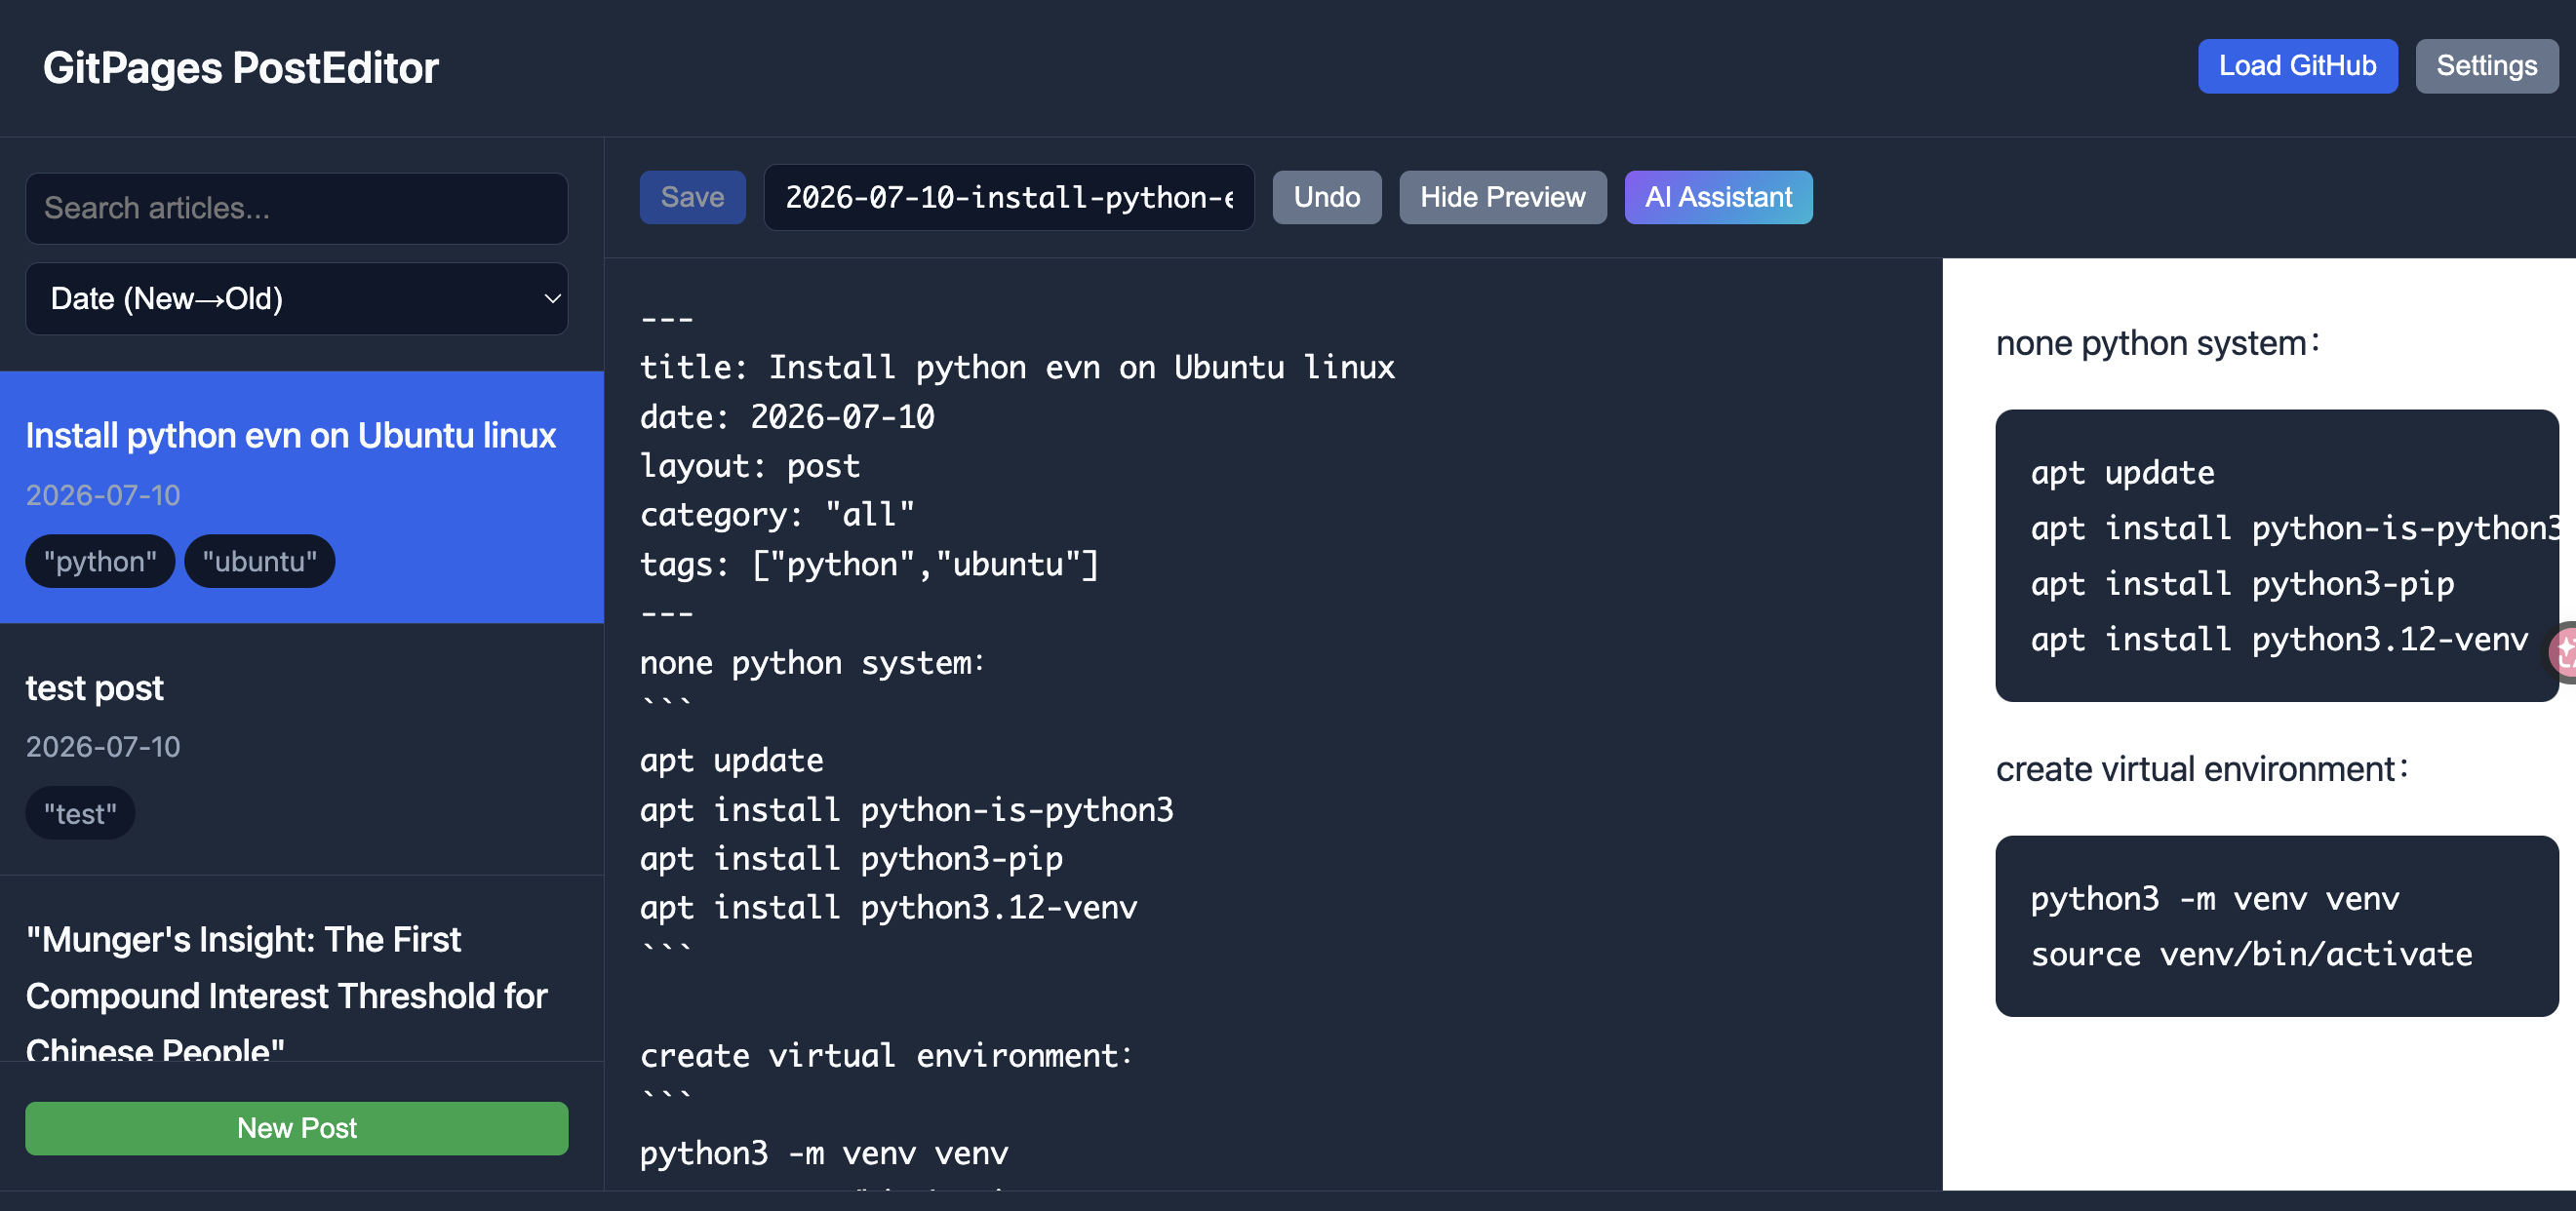
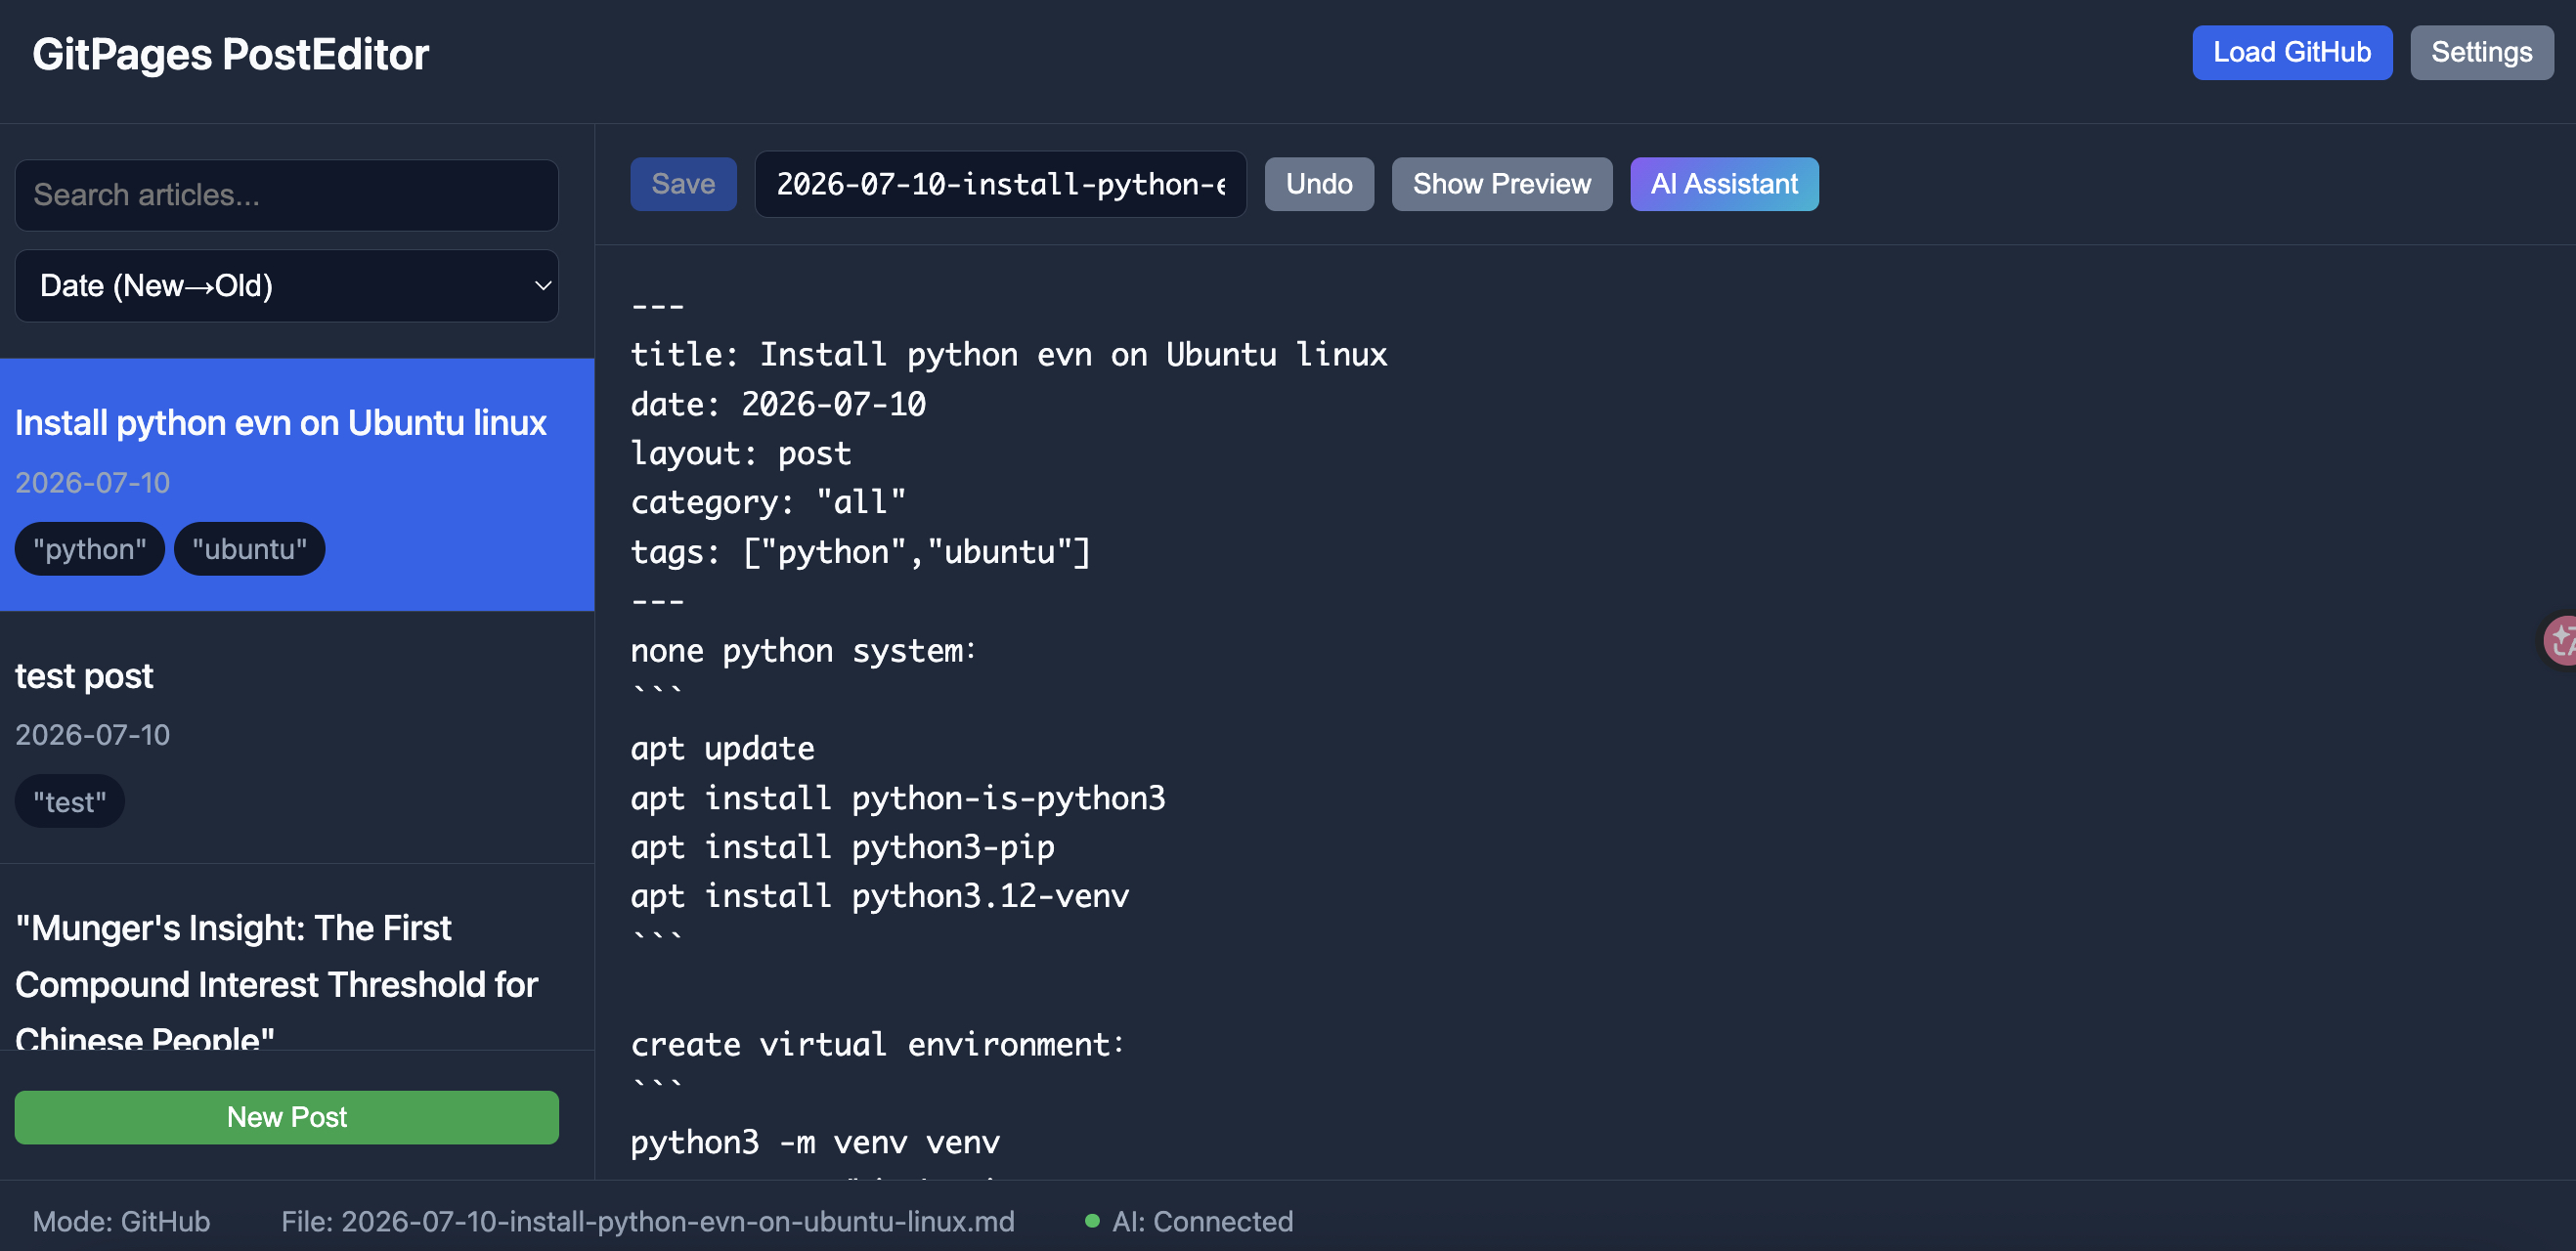
feat:add demo image

diff --git a/css/style.css b/css/style.css
@@ -375,6 +375,31 @@ body {
   gap: 0.35rem;
 }
 
+/* Footer 右侧内容 */
+.footer-right {
+  margin-left: auto;
+  display: flex;
+  align-items: center;
+  gap: 1.5rem;
+}
+
+.footer-version {
+  color: var(--secondary-color);
+  font-size: 0.65rem;
+  font-family: 'Monaco', 'Menlo', 'Ubuntu Mono', monospace;
+}
+
+.footer-github {
+  color: var(--secondary-color);
+  font-size: 0.65rem;
+  text-decoration: none;
+  transition: color 0.2s;
+}
+
+.footer-github:hover {
+  color: var(--text-color);
+}
+
 /* 状态指示点 */
 .status-success::before {
   content: '';

diff --git a/index.html b/index.html
@@ -57,6 +57,10 @@
       <span id="status-mode">Mode: GitHub</span>
       <span id="status-file">File: none selected</span>
       <span id="status-ai">AI: disconnected</span>
+      <div class="footer-right">
+        <span class="footer-version">v1.0</span>
+        <a href="https://github.com/winfirm" class="footer-github" target="_blank" rel="noopener noreferrer">GitHub</a>
+      </div>
     </footer>
   </div>
   

diff --git a/README.md b/README.md
@@ -4,6 +4,8 @@ A pure frontend single-page application for managing GitHub Pages blog posts (Je
 
 No backend server required — all code runs in the browser, and configuration is stored in `localStorage`.
 
+![](./demo_image.jpg)
+
 ## Features
 
 - **GitHub API Integration**